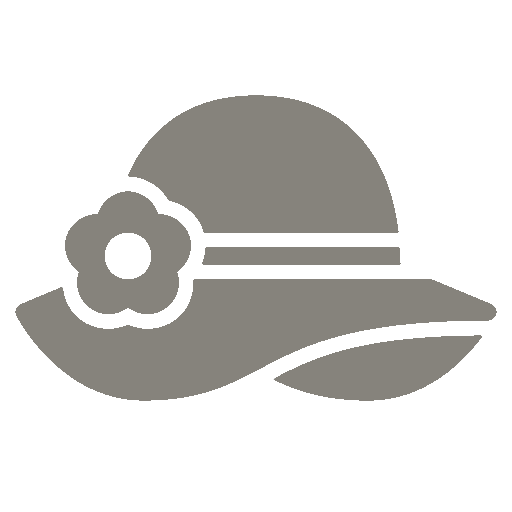
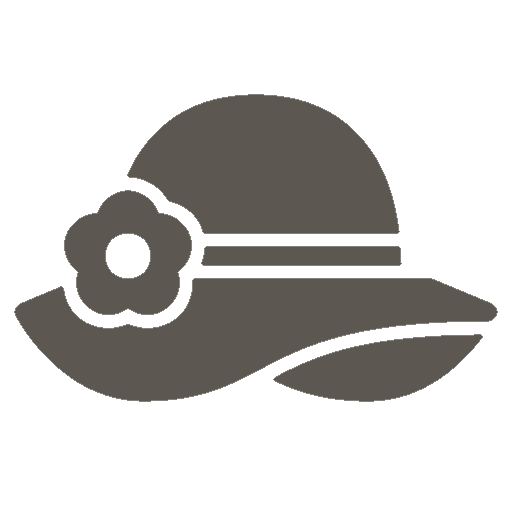
added to my homepage

diff --git a/project/styles/base.css b/project/styles/base.css
@@ -130,7 +130,7 @@ h1:hover {
     padding: 5px;
     text-decoration: none;
     /* background-color: var(--nav-background-color); */
-    color: #5c5751;
+    color: var(--primary-color);
 }
 
 .navigation a:hover,
@@ -147,7 +147,7 @@ h1 {
     font-size: 2rem;
     font-weight: bold;
     text-align: center;
-    color: #5c5751;
+    color: var(--primary-color);
 }
 
 main {

diff --git a/project/scripts/getdates.js b/project/scripts/getdates.js
@@ -1,10 +1,4 @@
-const hamButton = document.querySelector('#menu');
-const navigation = document.querySelector('.navigation');
 
-hamButton.addEventListener('click', () => {
-    navigation.classList.toggle('open');
-    hamButton.classList.toggle('open');
-});
 
 // copyright year
 const currentYear = new Date().getFullYear();

diff --git a/project/home.html b/project/home.html
@@ -109,7 +109,7 @@
         <p id="footer-name">Handcrafted Accessories<span>&copy;</span><span id="year"> </span> </p>
     </footer>
     <script src="scripts/getdates.js" defer></script>
-
+    <script src="scripts/hambutton.js" defer></script>
 </body>
 
 </html>

diff --git a/project/scripts/hambutton.js b/project/scripts/hambutton.js
@@ -1,0 +1,7 @@
+const hamButton = document.querySelector('#menu');
+const navigation = document.querySelector('.navigation');
+
+hamButton.addEventListener('click', () => {
+    navigation.classList.toggle('open');
+    hamButton.classList.toggle('open');
+});

diff --git a/project/styles/base-large.css b/project/styles/base-large.css
@@ -1,5 +1,5 @@
 :root {
-    --primary-color: #9D9791;
+    --primary-color: #5c5751;
     --secondary-color: #DB998F;
     --accent1-color: #2B1109;
     --accent2-color: #91393E;
